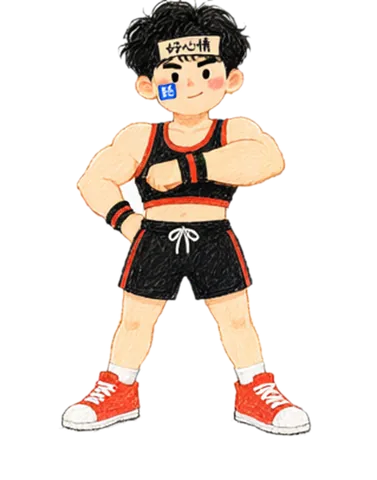
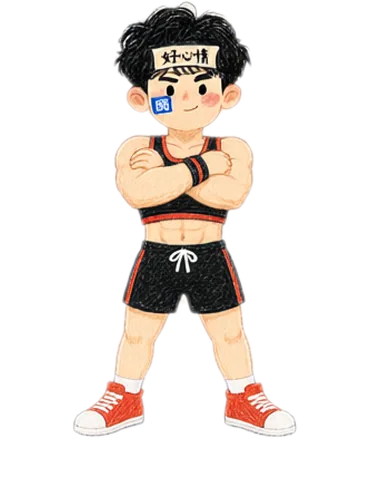
0.71
面板和模块页文字对比度按 WCAG 重排，房间小人十张动作图加上腹肌并加一档围度

Changed region(s): [[0.1459, 0.0, 0.8462, 0.9375]]

diff --git a/src/module.css b/src/module.css
@@ -5,14 +5,17 @@
    ══════════════════════════════════════════════════════════ */
 
 .mod {
-  --paper: #d9d4cb;
-  --ink: #17191d;
-  --red: #f14120;
+  /* --paper / --ink / --red 由 room.css 里 `.room, .room-layer, .mod` 统一定义，
+     这里只放模块页独有的：--line 刻意不提到 :root，
+     否则会覆盖简历深色主题自己在用的 --line。 */
   --line: rgba(23, 25, 29, .16);
   --card: #f6f2ea;
   min-height: 100dvh;
   padding: 0 clamp(14px, 3.2vw, 46px) clamp(30px, 5vw, 70px);
-  background: radial-gradient(120% 90% at 50% 0%, #cfcac1 0%, #b3aea6 62%, #9d988f 100%);
+  /* 地面刻意比房间浅一档：这页几乎没有卡片兜底的文字（页头、槽位标题、占位框）
+     都直接刷在渐变上，底越暗，同样字号的灰字就越看不清。原来的 #9d988f 会把
+     次要文字压到 2.5:1，肉眼就是"糊成一片"。现在最暗处 #c9c2b8 也保得住 4.5:1。 */
+  background: radial-gradient(120% 90% at 50% 0%, #dad5cc 0%, #d1cbbf 62%, #c9c2b8 100%);
   color: var(--ink);
   display: flex;
   flex-direction: column;
@@ -51,7 +54,7 @@
 .mod-bar > a:hover,
 .mod-bar > a:focus-visible { background: var(--red); border-color: var(--red); color: #fff; outline: none; }
 
-.mod-loc { margin-left: auto; border-style: dashed; color: #6a655d; }
+.mod-loc { margin-left: auto; border-style: dashed; color: #4a4741; }
 
 .mod-tabs { display: flex; flex-wrap: wrap; gap: 4px 2px; }
 
@@ -65,7 +68,7 @@
   transition: background .2s ease, color .2s ease;
 }
 
-.mod-tabs a:hover, .mod-tabs a:focus-visible { color: var(--red); background: rgba(241, 65, 32, .1); outline: none; }
+.mod-tabs a:hover, .mod-tabs a:focus-visible { color: var(--red-ink); background: rgba(241, 65, 32, .1); outline: none; }
 .mod-tabs a[data-on="on"] { background: var(--ink); color: #f4efe6; }
 
 /* ── 页头 ── */
@@ -79,15 +82,15 @@
   font: 400 10px / 1 'DM Mono', monospace;
   letter-spacing: .14em;
   background: rgba(38, 142, 92, .14);
-  color: #1f7a4f;
+  color: #155034;
 }
 
-.mod-status[data-ready="off"] { background: rgba(23, 25, 29, .1); color: #5a564f; }
+.mod-status[data-ready="off"] { background: rgba(23, 25, 29, .06); color: #4a4741; }
 
-.mod-kicker { display: block; margin-bottom: 8px; font: 400 10px / 1 'DM Mono', monospace; letter-spacing: .18em; color: #6a655d; }
+.mod-kicker { display: block; margin-bottom: 8px; font: 400 10px / 1 'DM Mono', monospace; letter-spacing: .18em; color: #4a4741; }
 .mod-head h1 { margin: 0 0 12px; font: 700 clamp(26px, 4vw, 46px) / 1.14 'Noto Sans SC', sans-serif; letter-spacing: -.015em; }
 .mod-lead { margin: 0 0 14px; font: 400 clamp(15px, 1.5vw, 18px) / 1.7 'Noto Sans SC', sans-serif; color: #3c3a36; max-width: 62ch; }
-.mod-text { margin: 0 0 11px; font: 400 14px / 1.85 'Noto Sans SC', sans-serif; color: #5a564f; max-width: 68ch; }
+.mod-text { margin: 0 0 11px; font: 400 14px / 1.85 'Noto Sans SC', sans-serif; color: #4a4741; max-width: 68ch; }
 
 /* ── 正文：槽位列表 ── */
 .mod-body {
@@ -106,7 +109,7 @@
   font: 500 12px / 1 'DM Mono', 'Noto Sans SC', monospace;
   letter-spacing: .16em;
   text-transform: uppercase;
-  color: #6a655d;
+  color: #4a4741;
 }
 
 /* ── 表：列名先站住，行等数据 ── */
@@ -129,8 +132,8 @@
 
 .mod-tr:first-child { border-top: 0; }
 .mod-tr.is-head { background: rgba(23, 25, 29, .06); }
-.mod-tr.is-head span { font: 400 10px / 1.4 'DM Mono', 'Noto Sans SC', monospace; letter-spacing: .14em; color: #6a655d; }
-.mod-empty { margin: 0; padding: 18px 16px; border-top: 1.5px dashed rgba(23, 25, 29, .22); font: 400 13px / 1.7 'Noto Sans SC', sans-serif; color: #6a655d; }
+.mod-tr.is-head span { font: 400 10px / 1.4 'DM Mono', 'Noto Sans SC', monospace; letter-spacing: .14em; color: #4a4741; }
+.mod-empty { margin: 0; padding: 18px 16px; border-top: 1.5px dashed rgba(23, 25, 29, .22); font: 400 13px / 1.7 'Noto Sans SC', sans-serif; color: #4a4741; }
 
 /* ── 链接槽位 ── */
 .mod-links { list-style: none; margin: 0; padding: 0; display: grid; gap: 10px; }
@@ -143,10 +146,10 @@
   background: var(--card);
 }
 
-.mod-links span { font: 400 10px / 1 'DM Mono', monospace; letter-spacing: .14em; color: #837d74; min-width: 58px; }
+.mod-links span { font: 400 10px / 1 'DM Mono', monospace; letter-spacing: .14em; color: #4f4a43; min-width: 58px; }
 .mod-links a, .mod-links strong { font: 500 15px / 1.4 'DM Mono', 'Noto Sans SC', monospace; color: var(--ink); text-decoration: none; }
 .mod-links a { border-bottom: 1.5px solid rgba(241, 65, 32, .4); }
-.mod-links a:hover { color: var(--red); }
+.mod-links a:hover { color: var(--red-ink); }
 
 /* ── 卡片：项目这种"一条有好几行"的内容 ── */
 .mod-cards { display: grid; gap: 14px; grid-template-columns: repeat(2, minmax(0, 1fr)); }
@@ -165,10 +168,10 @@
 
 .mod-card header { display: flex; align-items: baseline; gap: 10px; flex-wrap: wrap; }
 .mod-card header h5 { margin: 0; font: 700 clamp(17px, 1.8vw, 21px) / 1.25 'Noto Sans SC', sans-serif; letter-spacing: -.01em; }
-.mod-card header em { font: 400 9px / 1.4 'DM Mono', monospace; letter-spacing: .16em; color: #837d74; font-style: normal; }
+.mod-card header em { font: 400 9px / 1.4 'DM Mono', monospace; letter-spacing: .16em; color: #4f4a43; font-style: normal; }
 
-.mod-card-no { font: 400 11px / 1 'DM Mono', monospace; letter-spacing: .1em; color: var(--red); }
-.mod-card-meta { margin: 0; font: 400 12px / 1.6 'DM Mono', 'Noto Sans SC', monospace; color: #5a564f; }
+.mod-card-no { font: 400 11px / 1 'DM Mono', monospace; letter-spacing: .1em; color: var(--red-ink); }
+.mod-card-meta { margin: 0; font: 400 12px / 1.6 'DM Mono', 'Noto Sans SC', monospace; color: #4a4741; }
 .mod-card .mod-text { margin: 0; }
 
 .mod-tags { list-style: none; display: flex; flex-wrap: wrap; gap: 6px; margin: 2px 0 0; padding: 0; }
@@ -199,8 +202,8 @@
   text-align: center;
 }
 
-.mod-frame b { font: 400 10px / 1 'DM Mono', monospace; letter-spacing: .18em; color: #8a847b; }
-.mod-frame span { font: 400 13px / 1.7 'Noto Sans SC', sans-serif; color: #5a564f; max-width: 46ch; }
+.mod-frame b { font: 400 10px / 1 'DM Mono', monospace; letter-spacing: .18em; color: #4a4741; }
+.mod-frame span { font: 400 13px / 1.7 'Noto Sans SC', sans-serif; color: #4a4741; max-width: 46ch; }
 
 /* ── 页脚：模块之间能连着走 ── */
 .mod-foot {

diff --git a/src/room.css b/src/room.css
@@ -3,11 +3,20 @@
    配色：水泥灰 + 黑线 + 站点红 #f14120
    ══════════════════════════════════════════════════════════ */
 
-.room {
+/* token 必须同时定义在 portal 的根上。房间面板是 createPortal 挂到 <body> 的，
+   不是 .room 的后代；只在 .room 上声明的话，面板里的 var(--ink) 取不到值，
+   color 会退成"继承"，继承到的是简历深色主题给 body 的近白色 #f1f3f5 —
+   于是标题、关闭按钮、进入按钮全部变成浅米底上的浅白字。 */
+.room, .room-layer, .mod {
   --paper: #d9d4cb;
   --ink: #17191d;
   --red: #f14120;
-  /* contain 时上下要让出来的高度：内边距 ×2 + 一点空隙 */
+  /* 站点红只做底色和描边；一旦当字用（编号、链接 hover）就要压深一档，
+     #f14120 在米色卡上只有 3.4:1，11px 的编号几乎看不清。 */
+  --red-ink: #a82c14;
+}
+
+.room {
   --edge: calc(clamp(10px, 1.1vw, 20px) * 2 + 8px);
   min-height: 100dvh;
   display: flex;
@@ -197,7 +206,8 @@
 .room-readout[data-on="on"] { opacity: 1; transform: none; }
 
 .room-readout strong { font: 700 clamp(12px, 1.15vw, 16px) / 1 'Noto Sans SC', sans-serif; }
-.room-readout span { font: 400 clamp(9px, .82vw, 12px) / 1.3 'DM Mono', monospace; letter-spacing: .08em; color: #a9a49c; }
+/* 读数条是深色药丸，所以这里反过来要"浅字"：原来的 #a9a49c 在药丸底上只有 2.6:1。 */
+.room-readout span { font: 400 clamp(9px, .82vw, 12px) / 1.3 'DM Mono', monospace; letter-spacing: .08em; color: #d2cec6; }
 
 /* ── 窄屏兜底列表 ── */
 .room-list { display: none; }
@@ -246,7 +256,7 @@
   background: #e6e0d6;
 }
 
-.room-panel-bar span { font: 400 10px / 1 'DM Mono', monospace; letter-spacing: .16em; color: #6a655d; }
+.room-panel-bar span { font: 400 10px / 1 'DM Mono', monospace; letter-spacing: .16em; color: #4a4741; }
 
 .room-panel-bar button {
   font: 400 11px / 1 'DM Mono', monospace;
@@ -274,14 +284,14 @@
   font: 400 10px / 1 'DM Mono', monospace;
   letter-spacing: .14em;
   background: rgba(38, 142, 92, .14);
-  color: #1f7a4f;
+  color: #155034;
 }
 
-.room-status[data-soon="on"] { background: rgba(241, 65, 32, .13); color: #b8300f; }
+.room-status[data-soon="on"] { background: rgba(241, 65, 32, .13); color: #a02a0c; }
 
-.room-panel-body h3 { margin: 0 0 12px; font: 700 clamp(24px, 3.4vw, 40px) / 1.16 'Noto Sans SC', sans-serif; letter-spacing: -.01em; }
+.room-panel-body h3 { margin: 0 0 12px; color: var(--ink); font: 700 clamp(24px, 3.4vw, 40px) / 1.16 'Noto Sans SC', sans-serif; letter-spacing: -.01em; }
 .room-lead { margin: 0 0 16px; font: 400 clamp(15px, 1.5vw, 18px) / 1.7 'Noto Sans SC', sans-serif; color: #3c3a36; }
-.room-text { margin: 0 0 12px; font: 400 14px / 1.85 'Noto Sans SC', sans-serif; color: #5a564f; max-width: 68ch; }
+.room-text { margin: 0 0 12px; font: 400 14px / 1.85 'Noto Sans SC', sans-serif; color: #4a4741; max-width: 68ch; }
 
 .room-links { list-style: none; margin: 22px 0 0; padding: 0; display: grid; gap: 10px; }
 
@@ -293,10 +303,10 @@
   background: #f6f2ea;
 }
 
-.room-links span { font: 400 10px / 1 'DM Mono', monospace; letter-spacing: .14em; color: #837d74; min-width: 58px; }
+.room-links span { font: 400 10px / 1 'DM Mono', monospace; letter-spacing: .14em; color: #4f4a43; min-width: 58px; }
 .room-links a, .room-links strong { font: 500 15px / 1.4 'DM Mono', 'Noto Sans SC', monospace; color: var(--ink); text-decoration: none; }
 .room-links a { border-bottom: 1.5px solid rgba(241, 65, 32, .4); }
-.room-links a:hover { color: var(--red); }
+.room-links a:hover { color: var(--red-ink); }
 
 .room-shots { margin-top: 26px; display: grid; grid-template-columns: repeat(4, 1fr); gap: 12px; }
 
@@ -312,15 +322,15 @@
 }
 
 .room-shots img { width: 100%; aspect-ratio: 4 / 3; object-fit: cover; display: block; }
-.room-shots span { display: block; padding: 8px 10px 10px; font: 400 11px / 1.4 'Noto Sans SC', sans-serif; color: #5a564f; }
+.room-shots span { display: block; padding: 8px 10px 10px; font: 400 11px / 1.4 'Noto Sans SC', sans-serif; color: #4a4741; }
 
 .room-zoom { margin: 0 0 20px; }
 .room-zoom img { width: 100%; max-height: 58dvh; object-fit: contain; border-radius: 14px; background: #fff; border: 1.5px solid rgba(23, 25, 29, .18); }
-.room-zoom figcaption { display: flex; align-items: center; gap: 14px; margin-top: 10px; font: 400 11px / 1.4 'DM Mono', 'Noto Sans SC', monospace; letter-spacing: .08em; color: #6a655d; }
+.room-zoom figcaption { display: flex; align-items: center; gap: 14px; margin-top: 10px; font: 400 11px / 1.4 'DM Mono', 'Noto Sans SC', monospace; letter-spacing: .08em; color: #4a4741; }
 .room-zoom button { margin-left: auto; cursor: pointer; border: 1.5px solid rgba(23, 25, 29, .3); background: transparent; border-radius: 999px; padding: 6px 12px; font: 400 11px / 1 'DM Mono', monospace; }
 
 .room-todo { margin: 24px 0 0; padding-left: 20px; }
-.room-todo li { margin-bottom: 7px; font: 400 13px / 1.7 'Noto Sans SC', sans-serif; color: #6a655d; }
+.room-todo li { margin-bottom: 7px; font: 400 13px / 1.7 'Noto Sans SC', sans-serif; color: #4a4741; }
 .room-todo li::marker { color: var(--red); }
 
 .room-panel-foot {
@@ -342,7 +352,7 @@
 }
 
 .room-panel-foot a:hover, .room-panel-foot a:focus-visible { background: var(--red); border-color: var(--red); color: #fff; outline: none; }
-.room-panel-foot span { font: 400 11px / 1.6 'Noto Sans SC', sans-serif; color: #8a847b; }
+.room-panel-foot span { font: 400 11px / 1.6 'Noto Sans SC', sans-serif; color: #4a4741; }
 
 /* ── 响应式 ── */
 /* 铁律：舞台元素自身的比例必须始终是背景图的 1792/1024。
@@ -394,9 +404,9 @@
     color: var(--ink);
     display: grid; gap: 3px;
   }
-  .room-list small { font: 400 9px / 1 'DM Mono', monospace; letter-spacing: .14em; color: #8a847b; }
+  .room-list small { font: 400 9px / 1 'DM Mono', monospace; letter-spacing: .14em; color: #4a4741; }
   .room-list strong { font: 700 15px / 1.2 'Noto Sans SC', sans-serif; }
-  .room-list span { font: 400 11px / 1.4 'Noto Sans SC', sans-serif; color: #6a655d; }
+  .room-list span { font: 400 11px / 1.4 'Noto Sans SC', sans-serif; color: #4a4741; }
   .room-shots { grid-template-columns: repeat(2, 1fr); }
 }
 
